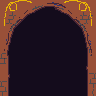
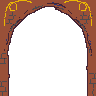
Wingame sequence (exit dungeon)

diff --git a/doorsofdoom/src/main/java/com/github/msx80/doorsofdoom/DoorsOfDoom.java b/doorsofdoom/src/main/java/com/github/msx80/doorsofdoom/DoorsOfDoom.java
@@ -42,6 +42,7 @@ public class DoorsOfDoom implements Game, GameInterface {
 	
 	private static final int MADNESS_DAMAGE = 4;
 	public static final int WISDOM_DAMAGE = 50;
+	public static final int EXIT_BONUS = 5000;
 	
 	public final int BUTTONS_X = 167; // 8 * 12 + 3;
 	public final int STATS_X = 97; // 8 * 12 + 3;
@@ -86,6 +87,7 @@ public class DoorsOfDoom implements Game, GameInterface {
 	Step SETTINGS;
 	Step LOOT;
 	Step DEATH;
+	Step WIN;
 	private int zoomsurf;
 	
 	private void actionNewGame() {
@@ -394,33 +396,67 @@ public class DoorsOfDoom implements Game, GameInterface {
 			new Action("Grab Loot!", this::grabLoot)
 		));
 		
-		DEATH = new Step( () -> {
+		DEATH = makeDeathStep(sys);
+		
+		
+		WIN = makeWinStep(sys);
+		
+		
+		
+		enterStep(INTRO);
+	}
+
+	private Step makeWinStep(final Sys sys) {
+		
+		Runnable onEnter = () -> {
 			sys.stopMusic();
 			doSound(19, 0.8f, 1f);
 			
-			// play sound!
-			anims.add(Easing.LINEAR, 240, a -> {
-				if (run.score() > getHighScore()) {
-					doSound(17, 0.8f, 1f);
-					log.add(11, "!! NEW HIGH SCORE !!");
-					log.add(15, "YOUR NEW HIGH SCORE IS: ", 13, "" + run.score());
-					setHighScore(run.score());
-					anims.add(Easing.LINEAR, 240, null, 0, 50, x -> {
-						p.printBig("NEW HIGH SCORE!", 120, 50 - x / 4, 11, Align.CENTER);
-					});
-				}
-			}, 0,50, a -> {
-				p.printBig("YOU'RE DEAD!!", 120, 50 - a / 4, 6, Align.CENTER);
-			});
-			// this.animPG(, 6, null);
-		}, null, () -> Arrays.asList(
+			doFinalScoreAnimation("YOU WON!!");
+		
+			
+		};
+		
+		return new Step( onEnter, null, () -> Arrays.asList(
 			new Action("Try Again", () -> { 
 				if (musicOn()) sys.music(1, 0.3f, true);
 				enterStep(INTRO);
 			})
 		));
+	}	
+	
+	private Step makeDeathStep(final Sys sys) {
+		Runnable onEnter = () -> {
+			sys.stopMusic();
+			doSound(19, 0.8f, 1f);
+			
+			// play sound!
+			doFinalScoreAnimation("YOU'RE DEAD!!");
+			// this.animPG(, 6, null);
+		};
 		
-		enterStep(INTRO);
+		return new Step( onEnter, null, () -> Arrays.asList(
+			new Action("Try Again", () -> { 
+				if (musicOn()) sys.music(1, 0.3f, true);
+				enterStep(INTRO);
+			})
+		));
+	}
+
+	private void doFinalScoreAnimation(String message) {
+		anims.add(Easing.LINEAR, 240, a -> {
+			if (run.score() > getHighScore()) {
+				doSound(17, 0.8f, 1f);
+				log.add(11, "!! NEW HIGH SCORE !!");
+				log.add(15, "YOUR NEW HIGH SCORE IS: ", 13, "" + run.score());
+				setHighScore(run.score());
+				anims.add(Easing.LINEAR, 240, null, 0, 50, x -> {
+					p.printBig("NEW HIGH SCORE!", 120, 50 - x / 4, 11, Align.CENTER);
+				});
+			}
+		}, 0,50, a -> {
+			p.printBig(message, 120, 50 - a / 4, 6, Align.CENTER);
+		});
 	}
 	
 	private long getHighScore() {
@@ -527,6 +563,7 @@ public class DoorsOfDoom implements Game, GameInterface {
 	
 	void enterStep(Step newStep) {
 		if (step!=null) step.onExit();
+		t = 0; // reset global counter
 		step = newStep;
 		step.onEnter();
 		refreshCommands();
@@ -535,6 +572,7 @@ public class DoorsOfDoom implements Game, GameInterface {
 	private Monster chooseMonster() {
 		List<MonsterDef> eligibles = Stream.of(MonsterDef.values()).filter(m -> m.levels.contains(run.level)).collect(Collectors.toList());
 		return new Monster(eligibles.get(r.nextInt(eligibles.size())));
+		// return new Monster(MonsterDef.DUNGEON_BOSS);
 	}
 	
 	protected static Loot calcLoot(Loot[] loots) {
@@ -562,8 +600,14 @@ public class DoorsOfDoom implements Game, GameInterface {
 		sys.clear(Tic80.BLACK);
 		// font.center("Doors of doom", 100, 10);
 		
+		if(step == WIN)
+		{
+			sys.draw(9, 0, 0, 0, Math.max(0,192-(t/10)), 96, 96, 0, 0);
+		}
+		
 		// the door
-		sys.draw((step == INDOOR || step == OPENING|| step == LOOT) ? 2 : 3, 0, 0, 0, 0, 96, 96, 0, 0);
+		boolean open = step == INDOOR || step == OPENING|| step == LOOT || step == WIN;
+		sys.draw(open ? 2 : 3, 0, 0, 0, 0, 96, 96, 0, 0);
 		
 		drawGame();
 		
@@ -787,5 +831,17 @@ public class DoorsOfDoom implements Game, GameInterface {
 		boolean x = update();
 		render();
 		return x;
+	}
+
+	@Override
+	public void exitDungeon() {
+		run.exited = true;
+		log.add(15, "");
+		log.add(7, "===== GAME FINISHED ====");
+		log.add(15, "You head toward the exit.");
+		log.add(15, "You fought well, warrior.");
+		log.add(14, "Your final score is: ", 8, ""+run.score());
+		enterStep(WIN);
+		
 	} 
 }

diff --git a/doorsofdoom/src/main/java/com/github/msx80/doorsofdoom/model/GameInterface.java b/doorsofdoom/src/main/java/com/github/msx80/doorsofdoom/model/GameInterface.java
@@ -17,5 +17,7 @@ public interface GameInterface {
 	void animPG(String animText, int animColor, Consumer<Animation> onEnd);
 	void damageMonster(int dmg, Runnable funMonsterStillAlive);
 	void refreshCommands();
-	public void doSound(int soundNum, float volume, float pitch);
+	void doSound(int soundNum, float volume, float pitch);
+	void confirm(String question, Runnable onYes, Runnable onNo);
+	void exitDungeon();
 }
